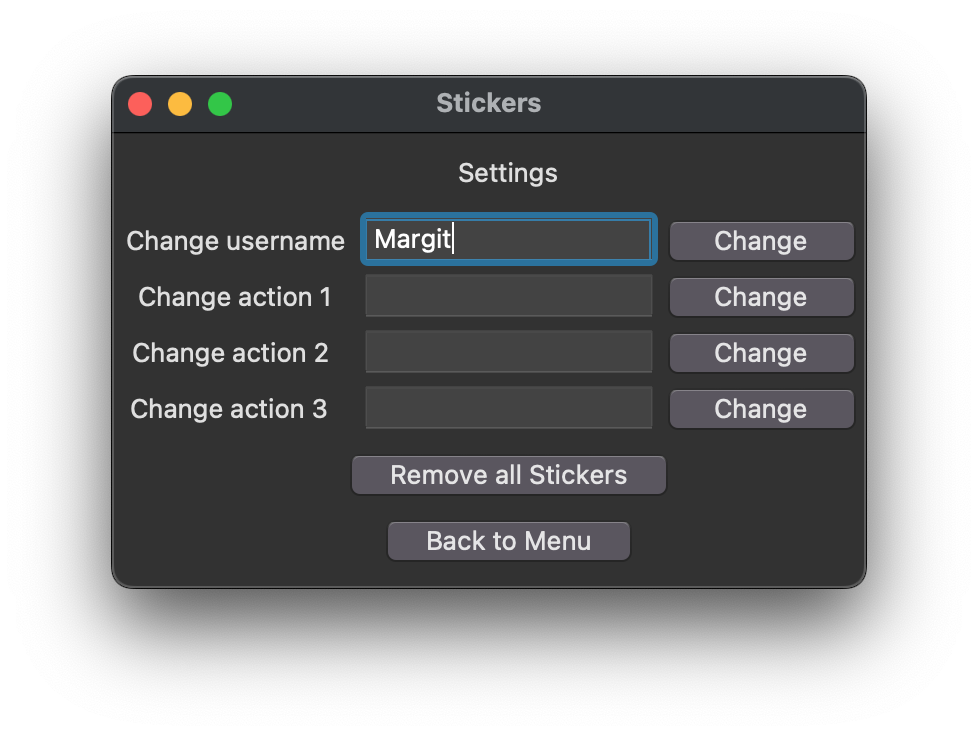
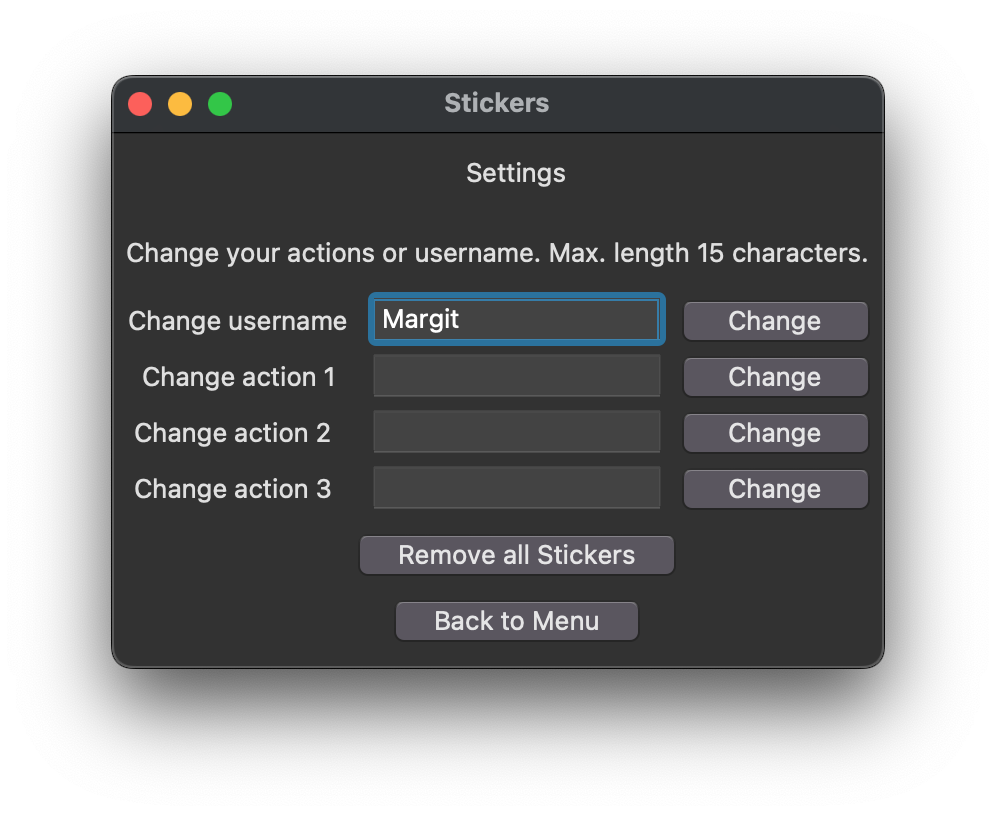
vko7

Changed region(s): [[0.092, 0.0938, 0.8896, 0.8438], [0.4601, 0.1875, 0.5828, 0.25]]

diff --git a/src/ui/settings_view.py b/src/ui/settings_view.py
@@ -51,6 +51,7 @@ class SettingsView:
     def _initialize(self):
         self._frame = ttk.Frame(master=self._root)
         label = ttk.Label(master=self._frame, text="Settings")
+        label2 = ttk.Label(master=self._frame, text="Change your actions or username. Max. length 15 characters.")
 
         back_button = ttk.Button(
             master=self._frame,
@@ -97,6 +98,7 @@ class SettingsView:
         )
 
         label.grid(row=0, column=1, pady=10)
+        label2.grid(row=1, column=0, pady=10, columnspan=3, padx=5)
         back_button.grid(row=9, column=1, pady=(0,10))
 
         username_label.grid(row=2, column=0, padx=(5,0))
